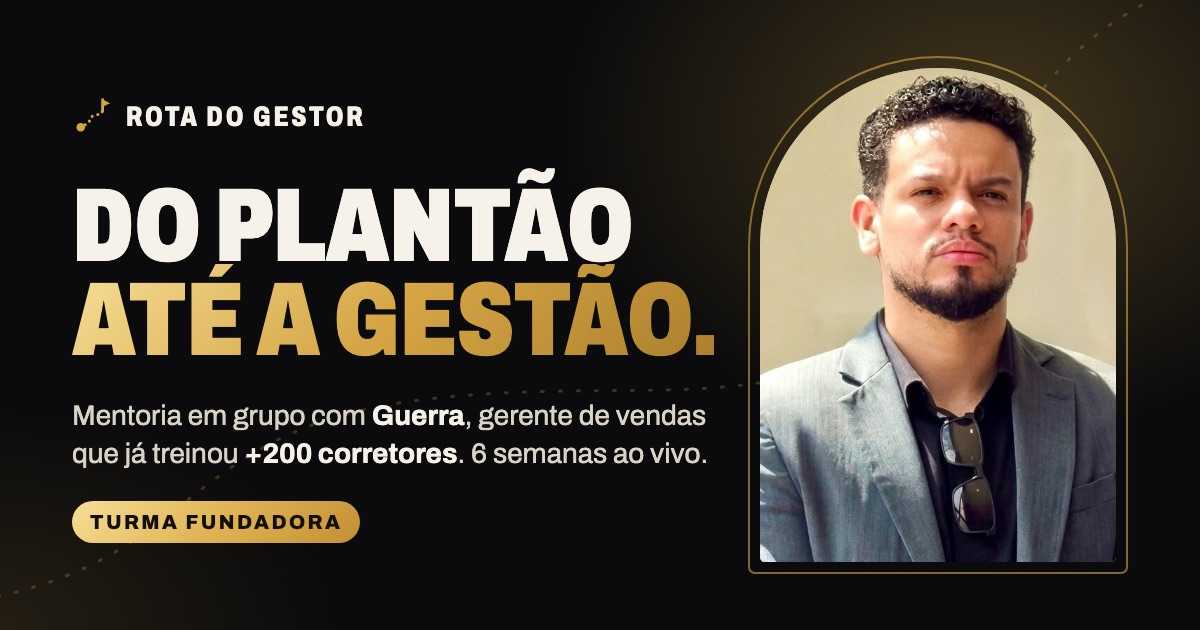
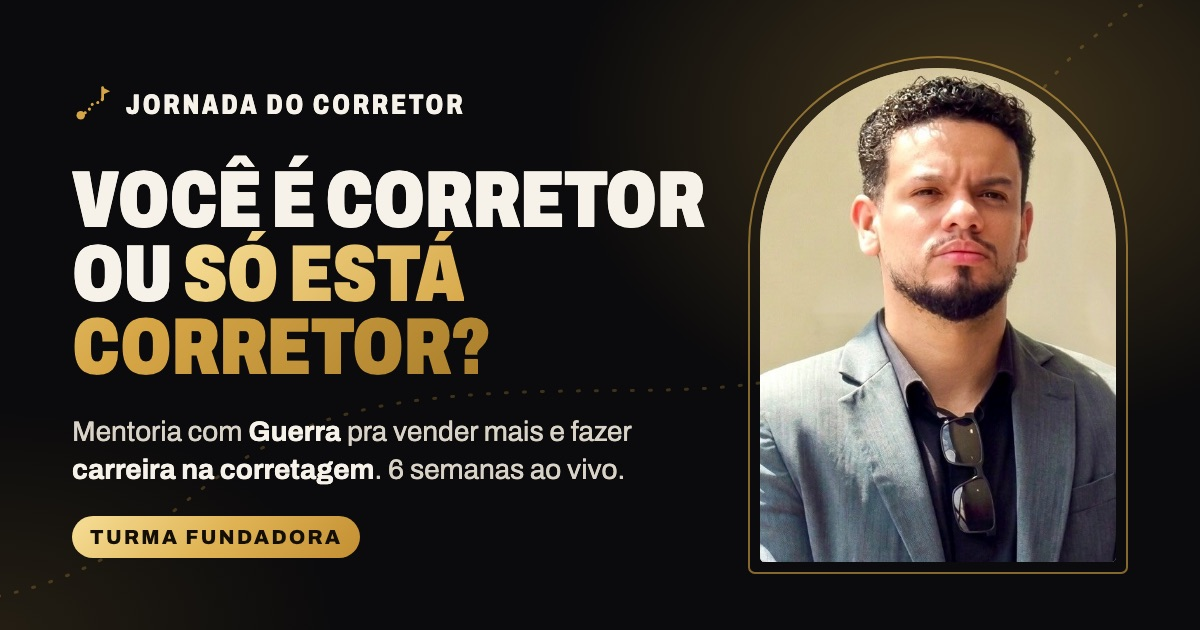
Renomeia para Jornada do Corretor com nova copy provocativa
Troca a comunicação "Rota do Gestor / do plantão até a gestão" pela
Jornada do Corretor: carreira dentro da profissão e evolução por etapas.
Novo título "Você é corretor ou só está corretor?", dores, história,
módulos, FAQ e chamada final reescritos em torno de não ser só mais um.
Mensagem do WhatsApp, imagem de prévia e LEIA-ME atualizados.

Changed region(s): [[0.0617, 0.2413, 0.6167, 0.6032], [0.0617, 0.6333, 0.5858, 0.9048], [0.0617, 0.1508, 0.4008, 0.2111]]

diff --git a/index.html b/index.html
@@ -3,21 +3,21 @@
 <head>
   <meta charset="UTF-8">
   <meta name="viewport" content="width=device-width, initial-scale=1, viewport-fit=cover">
-  <title>Rota do Gestor · Mentoria para corretores de imóveis | Guerra</title>
-  <meta name="description" content="Venda mais agora e trace o caminho do plantão até a gestão. Mentoria em grupo de 6 semanas, ao vivo, com Guerra: gerente de vendas que já treinou mais de 200 corretores no Minha Casa Minha Vida.">
+  <title>Jornada do Corretor · Mentoria para corretores de imóveis | Guerra</title>
+  <meta name="description" content="Você é corretor ou só está corretor? Mentoria em grupo de 6 semanas, ao vivo, com Guerra, gerente de vendas que já treinou mais de 200 corretores, pra você vender mais agora e transformar a corretagem em carreira.">
   <meta name="theme-color" content="#0B0B0C">
   <meta name="color-scheme" content="dark">
   <link rel="icon" href="favicon.svg" type="image/svg+xml">
 
   <meta property="og:type" content="website">
   <meta property="og:locale" content="pt_BR">
-  <meta property="og:title" content="Rota do Gestor · Do plantão até a gestão">
-  <meta property="og:description" content="Mentoria em grupo de 6 semanas, ao vivo, para corretores que querem vender mais e crescer até coordenador ou gerente. Turma fundadora com vagas limitadas.">
-  <!-- Ao publicar, troque pelo endereço completo (ex.: https://rotadogestor.netlify.app/assets/og-image.jpg) — o WhatsApp exige URL absoluta -->
+  <meta property="og:title" content="Jornada do Corretor · Não seja só mais um">
+  <meta property="og:description" content="Mentoria em grupo de 6 semanas, ao vivo, para corretores que querem vender mais e construir uma carreira de verdade na profissão. Turma fundadora com vagas limitadas.">
+  <!-- Ao publicar, troque pelo endereço completo (ex.: https://jornadadocorretor.netlify.app/assets/og-image.jpg) — o WhatsApp exige URL absoluta -->
   <meta property="og:image" content="assets/og-image.jpg">
   <meta property="og:image:width" content="1200">
   <meta property="og:image:height" content="630">
-  <meta property="og:image:alt" content="Rota do Gestor: mentoria com Guerra, do plantão até a gestão">
+  <meta property="og:image:alt" content="Jornada do Corretor: você é corretor ou só está corretor? Mentoria com Guerra">
   <meta name="twitter:card" content="summary_large_image">
   <meta name="twitter:image" content="assets/og-image.jpg">
 
@@ -45,7 +45,7 @@
   <!-- Ícones (reaproveitados em toda a página) -->
   <svg width="0" height="0" style="position:absolute" aria-hidden="true" focusable="false">
     <defs>
-      <symbol id="i-rota" viewBox="0 0 32 32" fill="none">
+      <symbol id="i-jornada" viewBox="0 0 32 32" fill="none">
         <circle cx="7" cy="25" r="3.4" fill="currentColor"/>
         <path d="M10.5 23c5-1.6 3-6.6 7.8-7.6 4.2-.9 6.2-1.6 6.2-5" stroke="currentColor" stroke-width="2.4" stroke-linecap="round" stroke-dasharray=".1 4.4"/>
         <path d="M24.5 12V2.8" stroke="currentColor" stroke-width="2.2" stroke-linecap="round"/>
@@ -102,11 +102,11 @@
   <!-- ================= TOPO ================= -->
   <header class="topbar">
     <div class="wrap topbar__in">
-      <a class="brand" href="#topo" aria-label="Rota do Gestor, voltar ao topo">
-        <svg aria-hidden="true"><use href="#i-rota"/></svg>
-        <span>Rota do Gestor</span>
+      <a class="brand" href="#topo" aria-label="Jornada do Corretor, voltar ao topo">
+        <svg aria-hidden="true"><use href="#i-jornada"/></svg>
+        <span>Jornada do Corretor</span>
       </a>
-      <a class="topbar__cta" href="https://wa.me/5511945913535?text=Quero%20saber%20da%20Rota%20do%20Gestor" target="_blank" rel="noopener" aria-label="Quero minha vaga (abre o WhatsApp)">
+      <a class="topbar__cta" href="https://wa.me/5511945913535?text=Quero%20saber%20da%20Jornada%20do%20Corretor" target="_blank" rel="noopener" aria-label="Quero minha vaga (abre o WhatsApp)">
         <svg aria-hidden="true"><use href="#i-wa"/></svg><span>Quero minha vaga</span>
       </a>
     </div>
@@ -134,17 +134,17 @@
           <p class="eyebrow rise" style="--d:1"><span class="dot" aria-hidden="true"></span> Mentoria em grupo · Turma fundadora</p>
 
           <h1 id="hero-title" class="h1 rise" style="--d:2">
-            Venda mais agora e trace o caminho <span class="gold-text">do plantão até a gestão.</span>
+            <span class="nowrap">Você é corretor</span><br>ou <span class="gold-text">só&nbsp;está corretor?</span>
           </h1>
 
           <p class="lead rise" style="--d:3">
-            <strong>6 semanas ao vivo</strong> com quem começou no plantão, virou gerente de vendas e já treinou <strong>mais de 200 corretores</strong> no Minha Casa Minha Vida.
+            Quem só está corretor vive de mês bom e mês ruim. Quem <strong>é</strong> corretor constrói carreira. Em <strong>6 semanas ao vivo</strong>, a Jornada do Corretor te mostra como vender mais agora e evoluir na profissão, com quem já treinou <strong>mais de 200 corretores</strong>.
           </p>
 
           <div class="rise" style="--d:4">
-            <a id="cta-topo" class="btn" href="https://wa.me/5511945913535?text=Quero%20saber%20da%20Rota%20do%20Gestor" target="_blank" rel="noopener">
+            <a id="cta-topo" class="btn" href="https://wa.me/5511945913535?text=Quero%20saber%20da%20Jornada%20do%20Corretor" target="_blank" rel="noopener">
               <svg aria-hidden="true"><use href="#i-wa"/></svg>
-              Quero entrar na Rota
+              Começar minha jornada
             </a>
             <p class="micro">Tire suas dúvidas no WhatsApp · <span class="nowrap" data-vagas>Vagas limitadas</span></p>
           </div>
@@ -156,7 +156,7 @@
           </div>
           <div class="chip chip--a">
             <strong>5 anos</strong>
-            <span>do plantão<br>à gerência</span>
+            <span>de mercado<br>imobiliário</span>
           </div>
           <div class="chip chip--b">
             <strong>+200</strong>
@@ -190,21 +190,21 @@
     <section class="section section--light" aria-labelledby="dores-title">
       <div class="wrap">
         <p class="kicker reveal">Seja sincero</p>
-        <h2 id="dores-title" class="h2 reveal">Você sente que está parado no plantão?</h2>
+        <h2 id="dores-title" class="h2 reveal">Você sente que é só mais um no mercado?</h2>
         <p class="sub reveal">Se você já pensou alguma dessas frases, essa mentoria foi feita pra você:</p>
 
         <ul class="pains">
           <li class="pain reveal"><span class="pain__icon" aria-hidden="true"><svg><use href="#i-x"/></svg></span><p>“Passo o dia inteiro no plantão e volto pra casa sem vender nada.”</p></li>
           <li class="pain reveal" style="--d:1"><span class="pain__icon" aria-hidden="true"><svg><use href="#i-x"/></svg></span><p>“Atendo bem, mas travo quando o cliente fala <b>tá caro</b> ou <b>vou pensar</b>.”</p></li>
           <li class="pain reveal"><span class="pain__icon" aria-hidden="true"><svg><use href="#i-x"/></svg></span><p>“Um mês eu vendo, no outro zero. Não tenho uma rotina que funcione.”</p></li>
-          <li class="pain reveal" style="--d:1"><span class="pain__icon" aria-hidden="true"><svg><use href="#i-x"/></svg></span><p>“Vejo colega sendo promovido e não entendo o que ele fez de diferente.”</p></li>
-          <li class="pain reveal"><span class="pain__icon" aria-hidden="true"><svg><use href="#i-x"/></svg></span><p>“Quero ser coordenador ou gerente, mas ninguém me mostra o caminho.”</p></li>
-          <li class="pain reveal" style="--d:1"><span class="pain__icon" aria-hidden="true"><svg><use href="#i-x"/></svg></span><p>“Parece que minha venda depende da sorte e do lead que cai no meu colo.”</p></li>
+          <li class="pain reveal" style="--d:1"><span class="pain__icon" aria-hidden="true"><svg><use href="#i-x"/></svg></span><p>“Vejo colega crescendo e não entendo o que ele faz de diferente.”</p></li>
+          <li class="pain reveal"><span class="pain__icon" aria-hidden="true"><svg><use href="#i-x"/></svg></span><p>“Não sei onde quero estar daqui a 3 anos. Só sei que não é aqui.”</p></li>
+          <li class="pain reveal" style="--d:1"><span class="pain__icon" aria-hidden="true"><svg><use href="#i-x"/></svg></span><p>“Às vezes acho que ser corretor é só um bico até aparecer coisa melhor.”</p></li>
         </ul>
 
         <div class="turn reveal">
-          <p class="turn__big">Não é falta de vontade.<br><span class="gold-text">É falta de rota.</span></p>
-          <p class="turn__small">A boa notícia: esse caminho tem mapa. E eu já percorri cada trecho dele.</p>
+          <p class="turn__big">O mercado está cheio de corretor.<br><span class="gold-text">Poucos são lembrados.</span></p>
+          <p class="turn__small">A diferença não é talento nem sorte. É tratar a profissão como carreira e evoluir uma etapa de cada vez. E isso se aprende.</p>
         </div>
       </div>
     </section>
@@ -214,26 +214,26 @@
       <div class="wrap story">
         <figure class="story__media reveal">
           <div class="frame media" data-file="foto-historia.jpg">
-            <img src="assets/foto-historia.jpg" alt="Guerra, gerente de vendas e mentor da Rota do Gestor" width="704" height="704" loading="lazy" decoding="async" onerror="this.parentNode.classList.add('is-missing')">
+            <img src="assets/foto-historia.jpg" alt="Guerra, gerente de vendas e mentor da Jornada do Corretor" width="704" height="704" loading="lazy" decoding="async" onerror="this.parentNode.classList.add('is-missing')">
           </div>
           <figcaption class="story__tag">
-            <svg aria-hidden="true"><use href="#i-rota"/></svg>
+            <svg aria-hidden="true"><use href="#i-jornada"/></svg>
             <span><strong>Gabriel Guerra</strong>Gerente de vendas</span>
           </figcaption>
         </figure>
 
         <div class="story__text">
           <p class="kicker reveal">Minha história</p>
-          <h2 id="historia-title" class="h2 reveal">Eu já estive <span class="gold-text">no seu lugar.</span></h2>
+          <h2 id="historia-title" class="h2 reveal">Eu também comecei <span class="gold-text">como só mais um.</span></h2>
 
           <div class="prose reveal">
             <p>Comecei como corretor, no plantão, igual a você. Sei como é passar o dia esperando cliente, ouvir “vou pensar” e não saber se o mês vai fechar.</p>
-            <p>Em 5 anos, saí do plantão pra gerência de vendas. No caminho, liderei equipes e treinei <strong>mais de 200 corretores e corretoras</strong> no Minha Casa Minha Vida.</p>
-            <p>E o que mais me orgulha não é o meu cargo: é ver gente que eu treinei virando <strong>coordenador e gerente</strong> também.</p>
-            <p>A Rota do Gestor é o que eu queria que alguém tivesse me mostrado lá no começo. Sem fórmula mágica e sem papo de coach: rotina, técnica e a visão de quem vive a venda todo dia.</p>
+            <p>A virada veio quando parei de tratar a corretagem como um emprego qualquer e passei a encarar como <strong>carreira</strong>. Em 5 anos, virei gerente de vendas, liderei equipes e treinei <strong>mais de 200 corretores e corretoras</strong> no Minha Casa Minha Vida.</p>
+            <p>E o que mais me orgulha não é o meu cargo: é ver gente que eu treinei <strong>deixando de ser só mais um</strong>, e alguns virando coordenadores e gerentes.</p>
+            <p>A Jornada do Corretor é o que eu queria que alguém tivesse me mostrado lá no começo. Sem fórmula mágica e sem papo de coach: rotina, técnica e visão de carreira, de quem vive a venda todo dia.</p>
           </div>
 
-          <ol class="timeline reveal" aria-label="Minha trajetória">
+          <ol class="timeline reveal" aria-label="Minha jornada">
             <li><strong>Corretor de plantão</strong><span>Onde tudo começou.</span></li>
             <li><strong>Líder de equipe</strong><span>Liderei equipes de vendas.</span></li>
             <li><strong>Gerente de vendas</strong><span>5 anos depois do primeiro plantão.</span></li>
@@ -253,8 +253,8 @@
       <div class="wrap">
         <div class="center">
           <p class="kicker reveal">O que você vai aprender</p>
-          <h2 id="modulos-title" class="h2 reveal">6&nbsp;semanas. 6&nbsp;paradas. <span class="gold-text">Uma rota.</span></h2>
-          <p class="sub reveal">Cada semana é uma parada: um encontro ao vivo com conteúdo prático pra você aplicar no plantão no dia seguinte.</p>
+          <h2 id="modulos-title" class="h2 reveal">6&nbsp;semanas. 6&nbsp;etapas. <span class="gold-text">Um novo nível.</span></h2>
+          <p class="sub reveal">Cada semana é uma etapa da sua evolução: um encontro ao vivo com conteúdo prático pra você aplicar no dia seguinte.</p>
         </div>
 
         <div class="route-wrap">
@@ -265,7 +265,7 @@
               <div class="stop__card">
                 <span class="stop__week">Semana 1</span>
                 <h3>Diagnóstico e mapa de carreira</h3>
-                <p>Onde você está hoje, onde quer chegar e o que falta pra chegar lá. Nada de achismo: um plano no papel.</p>
+                <p>Onde você está hoje, onde quer chegar e o que falta. Carreira não se constrói no achismo: se constrói com plano.</p>
                 <span class="badge"><svg aria-hidden="true"><use href="#i-doc"/></svg> Entregável: seu Plano de Desenvolvimento Individual (PDI)</span>
               </div>
             </li>
@@ -290,7 +290,7 @@
               <div class="stop__card">
                 <span class="stop__week">Semana 4</span>
                 <h3>Liderança sem cargo</h3>
-                <p>Como virar referência na equipe antes mesmo da promoção: ajudar, puxar o time e ser lembrado quando surgir a vaga.</p>
+                <p>Como virar referência na equipe sem precisar de cargo: ajudar, puxar o time e ser o nome que todo mundo lembra.</p>
               </div>
             </li>
             <li class="stop">
@@ -306,14 +306,14 @@
               <div class="stop__card">
                 <span class="stop__week">Semana 6</span>
                 <h3>Marca pessoal e como conquistar a promoção</h3>
-                <p>Como ser visto, dentro e fora da empresa, e como se posicionar pra conquistar o próximo cargo.</p>
+                <p>Como deixar de ser só mais um e virar o nome que clientes, equipe e liderança lembram, e como se posicionar pro próximo passo da carreira.</p>
               </div>
             </li>
             <li class="stop stop--end">
               <span class="stop__node" aria-hidden="true"><svg><use href="#i-flag"/></svg></span>
               <div class="stop__dest">
-                <span class="stop__week">Destino</span>
-                <strong>A gestão</strong>
+                <span class="stop__week">Chegada</span>
+                <strong>Corretor de carreira</strong>
               </div>
             </li>
           </ol>
@@ -347,9 +347,9 @@
           <p class="howto__when reveal"><svg aria-hidden="true"><use href="#i-cal"/></svg><span>Encontros ao vivo <span data-horario>com dia e horário informados no WhatsApp</span>.</span></p>
 
           <div class="center reveal">
-            <a class="btn" href="https://wa.me/5511945913535?text=Quero%20saber%20da%20Rota%20do%20Gestor" target="_blank" rel="noopener">
+            <a class="btn" href="https://wa.me/5511945913535?text=Quero%20saber%20da%20Jornada%20do%20Corretor" target="_blank" rel="noopener">
               <svg aria-hidden="true"><use href="#i-wa"/></svg>
-              Quero trilhar essa rota
+              Quero dar o próximo passo
             </a>
           </div>
         </div>
@@ -370,7 +370,7 @@
             <ul>
               <li><svg aria-hidden="true"><use href="#i-check"/></svg><span>Tem de <b>6 meses a 3 anos</b> de mercado imobiliário.</span></li>
               <li><svg aria-hidden="true"><use href="#i-check"/></svg><span>Quer vender mais <b>agora</b>, não daqui a um ano.</span></li>
-              <li><svg aria-hidden="true"><use href="#i-check"/></svg><span>Quer crescer pra <b>coordenador(a) ou gerente</b>.</span></li>
+              <li><svg aria-hidden="true"><use href="#i-check"/></svg><span>Quer <b>fazer carreira</b> na corretagem, como referência em vendas ou como líder.</span></li>
               <li><svg aria-hidden="true"><use href="#i-check"/></svg><span>Topa aplicar o que aprender, e não só assistir.</span></li>
               <li><svg aria-hidden="true"><use href="#i-check"/></svg><span>Quer aprender com quem vive a venda no dia a dia, não com teoria.</span></li>
             </ul>
@@ -381,6 +381,7 @@
               <li><svg aria-hidden="true"><use href="#i-x"/></svg><span>Procura fórmula mágica ou venda sem esforço.</span></li>
               <li><svg aria-hidden="true"><use href="#i-x"/></svg><span>Quer só motivação, sem ferramenta prática.</span></li>
               <li><svg aria-hidden="true"><use href="#i-x"/></svg><span>Não está disposto(a) a mudar a sua rotina.</span></li>
+              <li><svg aria-hidden="true"><use href="#i-x"/></svg><span>Vê a corretagem como bico até aparecer coisa melhor.</span></li>
               <li><svg aria-hidden="true"><use href="#i-x"/></svg><span>Acha que já sabe tudo sobre vendas.</span></li>
             </ul>
           </div>
@@ -411,7 +412,7 @@
               <span class="ticket__icon" aria-hidden="true"><svg><use href="#i-trophy"/></svg></span>
             </div>
             <h3>Modelo de competição de vendas</h3>
-            <p>Regras, pontuação e premiação prontas pra rodar uma competição que engaja o time. Leve pro seu gerente e mostre visão de líder antes do cargo.</p>
+            <p>Regras, pontuação e premiação prontas pra rodar uma competição que engaja o time. Mostre que você enxerga além da própria venda.</p>
           </article>
         </div>
       </div>
@@ -428,7 +429,7 @@
         <div class="price-card reveal">
           <div class="price-card__in">
             <span class="tag">Turma fundadora</span>
-            <h3>Rota do Gestor</h3>
+            <h3>Jornada do Corretor</h3>
             <p class="price-card__sub">Mentoria em grupo · 6 semanas ao vivo</p>
 
             <ul class="includes">
@@ -453,7 +454,7 @@
               <span class="pill"><svg aria-hidden="true"><use href="#i-cal"/></svg><span data-inicio>Início em breve</span></span>
             </div>
 
-            <a class="btn btn--block" href="https://wa.me/5511945913535?text=Quero%20saber%20da%20Rota%20do%20Gestor" target="_blank" rel="noopener">
+            <a class="btn btn--block" href="https://wa.me/5511945913535?text=Quero%20saber%20da%20Jornada%20do%20Corretor" target="_blank" rel="noopener">
               <svg aria-hidden="true"><use href="#i-wa"/></svg>
               Garantir minha vaga
             </a>
@@ -485,8 +486,8 @@
             <p>Minha experiência é no MCMV, então muitos exemplos vêm de lá. Mas rotina, funil, negociação, liderança e marca pessoal servem pra qualquer segmento de imóveis.</p>
           </details>
           <details name="faq" class="reveal">
-            <summary>A mentoria garante que eu vou ser promovido?<span class="faq__icon" aria-hidden="true"><svg><use href="#i-plus"/></svg></span></summary>
-            <p>Não, e desconfie de quem promete isso. Promoção depende de você, da empresa e do momento. O que você leva é um plano claro (seu PDI), ferramentas práticas e a visão de quem já está na gestão, que é o que faz diferença quando a oportunidade aparece.</p>
+            <summary>A mentoria garante que eu vou vender mais e crescer?<span class="faq__icon" aria-hidden="true"><svg><use href="#i-plus"/></svg></span></summary>
+            <p>Não, e desconfie de quem promete isso. Resultado depende de você, da sua execução e do momento. O que você leva é um plano claro (seu PDI), ferramentas práticas e a visão de quem já percorreu essa jornada, que é o que faz diferença quando a oportunidade aparece.</p>
           </details>
           <details name="faq" class="reveal">
             <summary>Como faço pra garantir minha vaga e pagar?<span class="faq__icon" aria-hidden="true"><svg><use href="#i-plus"/></svg></span></summary>
@@ -500,12 +501,12 @@
     <section class="section final" aria-labelledby="final-title" data-hide-sticky>
       <div class="wrap center">
         <span class="avatar avatar--lg reveal"><img src="assets/foto-topo.jpg" alt="" width="704" height="704" loading="lazy" decoding="async"></span>
-        <h2 id="final-title" class="h2 reveal">O plantão pode ser só o <span class="gold-text">começo da sua rota.</span></h2>
-        <p class="sub reveal">Daqui a 6 semanas você pode continuar no mesmo lugar, ou ter um plano claro pra vender mais e crescer até a gestão. A escolha é sua.</p>
+        <h2 id="final-title" class="h2 reveal">Só mais um ou<br><span class="gold-text">o&nbsp;nome que o&nbsp;mercado&nbsp;lembra?</span></h2>
+        <p class="sub reveal">Daqui a 6 semanas você pode continuar no mesmo lugar, ou ter um plano claro pra vender mais e construir uma carreira de verdade na corretagem. A escolha é sua.</p>
         <div class="reveal">
-          <a class="btn" href="https://wa.me/5511945913535?text=Quero%20saber%20da%20Rota%20do%20Gestor" target="_blank" rel="noopener">
+          <a class="btn" href="https://wa.me/5511945913535?text=Quero%20saber%20da%20Jornada%20do%20Corretor" target="_blank" rel="noopener">
             <svg aria-hidden="true"><use href="#i-wa"/></svg>
-            Quero garantir minha vaga
+            Chega de ser só mais um
           </a>
           <p class="micro"><span class="nowrap" data-vagas>Vagas limitadas</span> · <span class="nowrap" data-inicio>Início em breve</span></p>
         </div>
@@ -515,15 +516,15 @@
 
   <footer class="footer" data-hide-sticky>
     <div class="wrap footer__in">
-      <a class="brand" href="#topo" aria-label="Rota do Gestor, voltar ao topo">
-        <svg aria-hidden="true"><use href="#i-rota"/></svg>
-        <span>Rota do Gestor</span>
+      <a class="brand" href="#topo" aria-label="Jornada do Corretor, voltar ao topo">
+        <svg aria-hidden="true"><use href="#i-jornada"/></svg>
+        <span>Jornada do Corretor</span>
       </a>
       <p>Gabriel Guerra · CRECI 267059-F</p>
       <a class="footer__ig" href="https://www.instagram.com/guerragestor/" target="_blank" rel="noopener">
         <svg aria-hidden="true"><use href="#i-ig"/></svg> @guerragestor
       </a>
-      <p class="footer__copy">© <span class="js-year">2026</span> Rota do Gestor. Todos os direitos reservados.</p>
+      <p class="footer__copy">© <span class="js-year">2026</span> Jornada do Corretor. Todos os direitos reservados.</p>
     </div>
   </footer>
 
@@ -533,7 +534,7 @@
       <small>Turma fundadora</small>
       <strong>12x de R$ 39</strong>
     </div>
-    <a class="btn" href="https://wa.me/5511945913535?text=Quero%20saber%20da%20Rota%20do%20Gestor" target="_blank" rel="noopener">
+    <a class="btn" href="https://wa.me/5511945913535?text=Quero%20saber%20da%20Jornada%20do%20Corretor" target="_blank" rel="noopener">
       <svg aria-hidden="true"><use href="#i-wa"/></svg>
       Garantir vaga
     </a>

diff --git a/css/style.css b/css/style.css
@@ -1,5 +1,5 @@
 /* =========================================================
-   Rota do Gestor · Landing page (mobile-first)
+   Jornada do Corretor · Landing page (mobile-first)
    Preto, dourado e branco · Archivo (uma família variável)
    ========================================================= */
 
@@ -92,7 +92,7 @@ h1, h2, h3 { margin: 0; }
 
 .h1 {
   font-weight: 900;
-  font-size: clamp(2.6rem, 11.4vw, 5.25rem);
+  font-size: clamp(2.1rem, 10.8vw, 5.25rem);
   line-height: .94;
   letter-spacing: -.005em;
   margin: 20px 0 18px;
@@ -188,6 +188,11 @@ h1, h2, h3 { margin: 0; }
 @keyframes shine {
   0% { transform: translateX(-130%); }
   22%, 100% { transform: translateX(130%); }
+}
+
+@media (max-width: 359px) {
+  .btn { gap: 8px; font-size: .95rem; }
+  .btn svg { width: 20px; height: 20px; }
 }
 
 .micro {
@@ -651,7 +656,7 @@ h1, h2, h3 { margin: 0; }
 }
 .quote footer::before { content: "— "; }
 
-/* ---------- Módulos (a rota) ---------- */
+/* ---------- Módulos (a jornada) ---------- */
 .section--route {
   background:
     radial-gradient(60% 40% at 50% 0%, rgba(214, 166, 70, .1), transparent 70%),

diff --git a/js/main.js b/js/main.js
@@ -1,5 +1,5 @@
 /* =========================================================
-   Rota do Gestor · interações (sem bibliotecas)
+   Jornada do Corretor · interações (sem bibliotecas)
    ========================================================= */
 (() => {
   /* ============ EDITE AQUI ============
@@ -31,7 +31,7 @@
   // Ano no rodapé
   $$('.js-year').forEach((el) => (el.textContent = new Date().getFullYear()));
 
-  // Revelação suave ao rolar (e paradas da rota acendendo)
+  // Revelação suave ao rolar (e etapas da jornada acendendo)
   const revealables = $$('.reveal, .stop');
   if (hasIO) {
     const io = new IntersectionObserver((entries) => {
